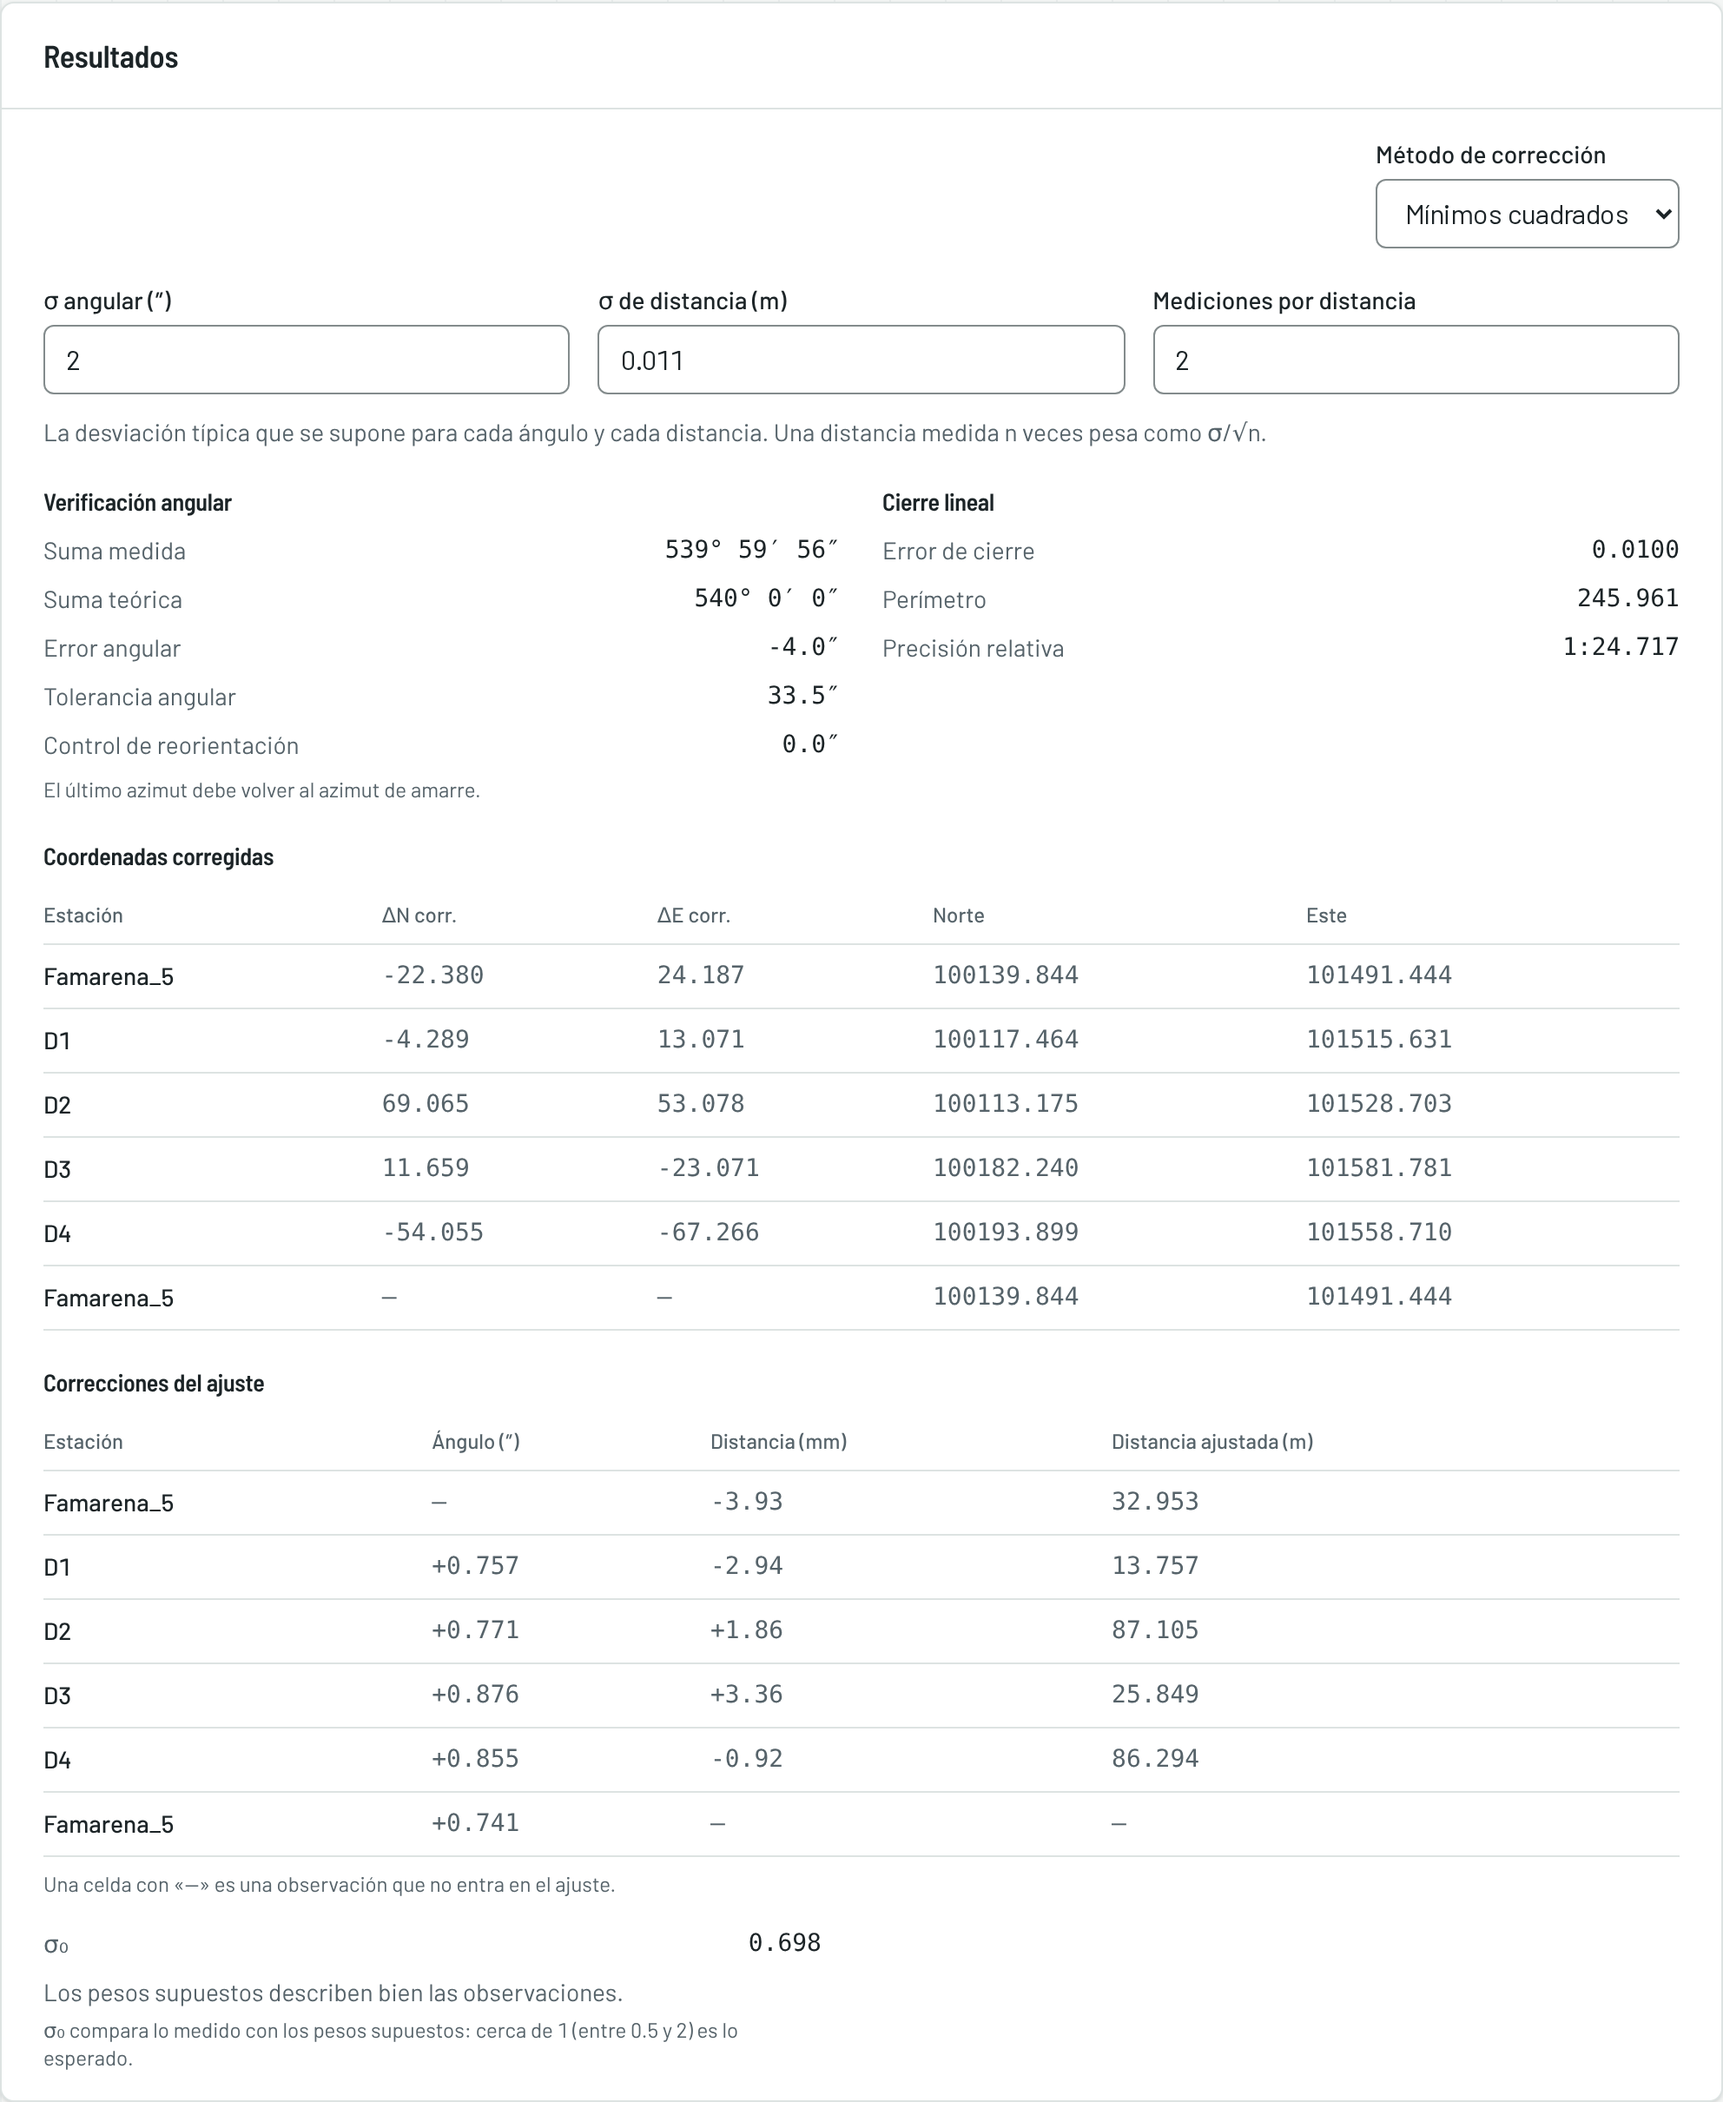
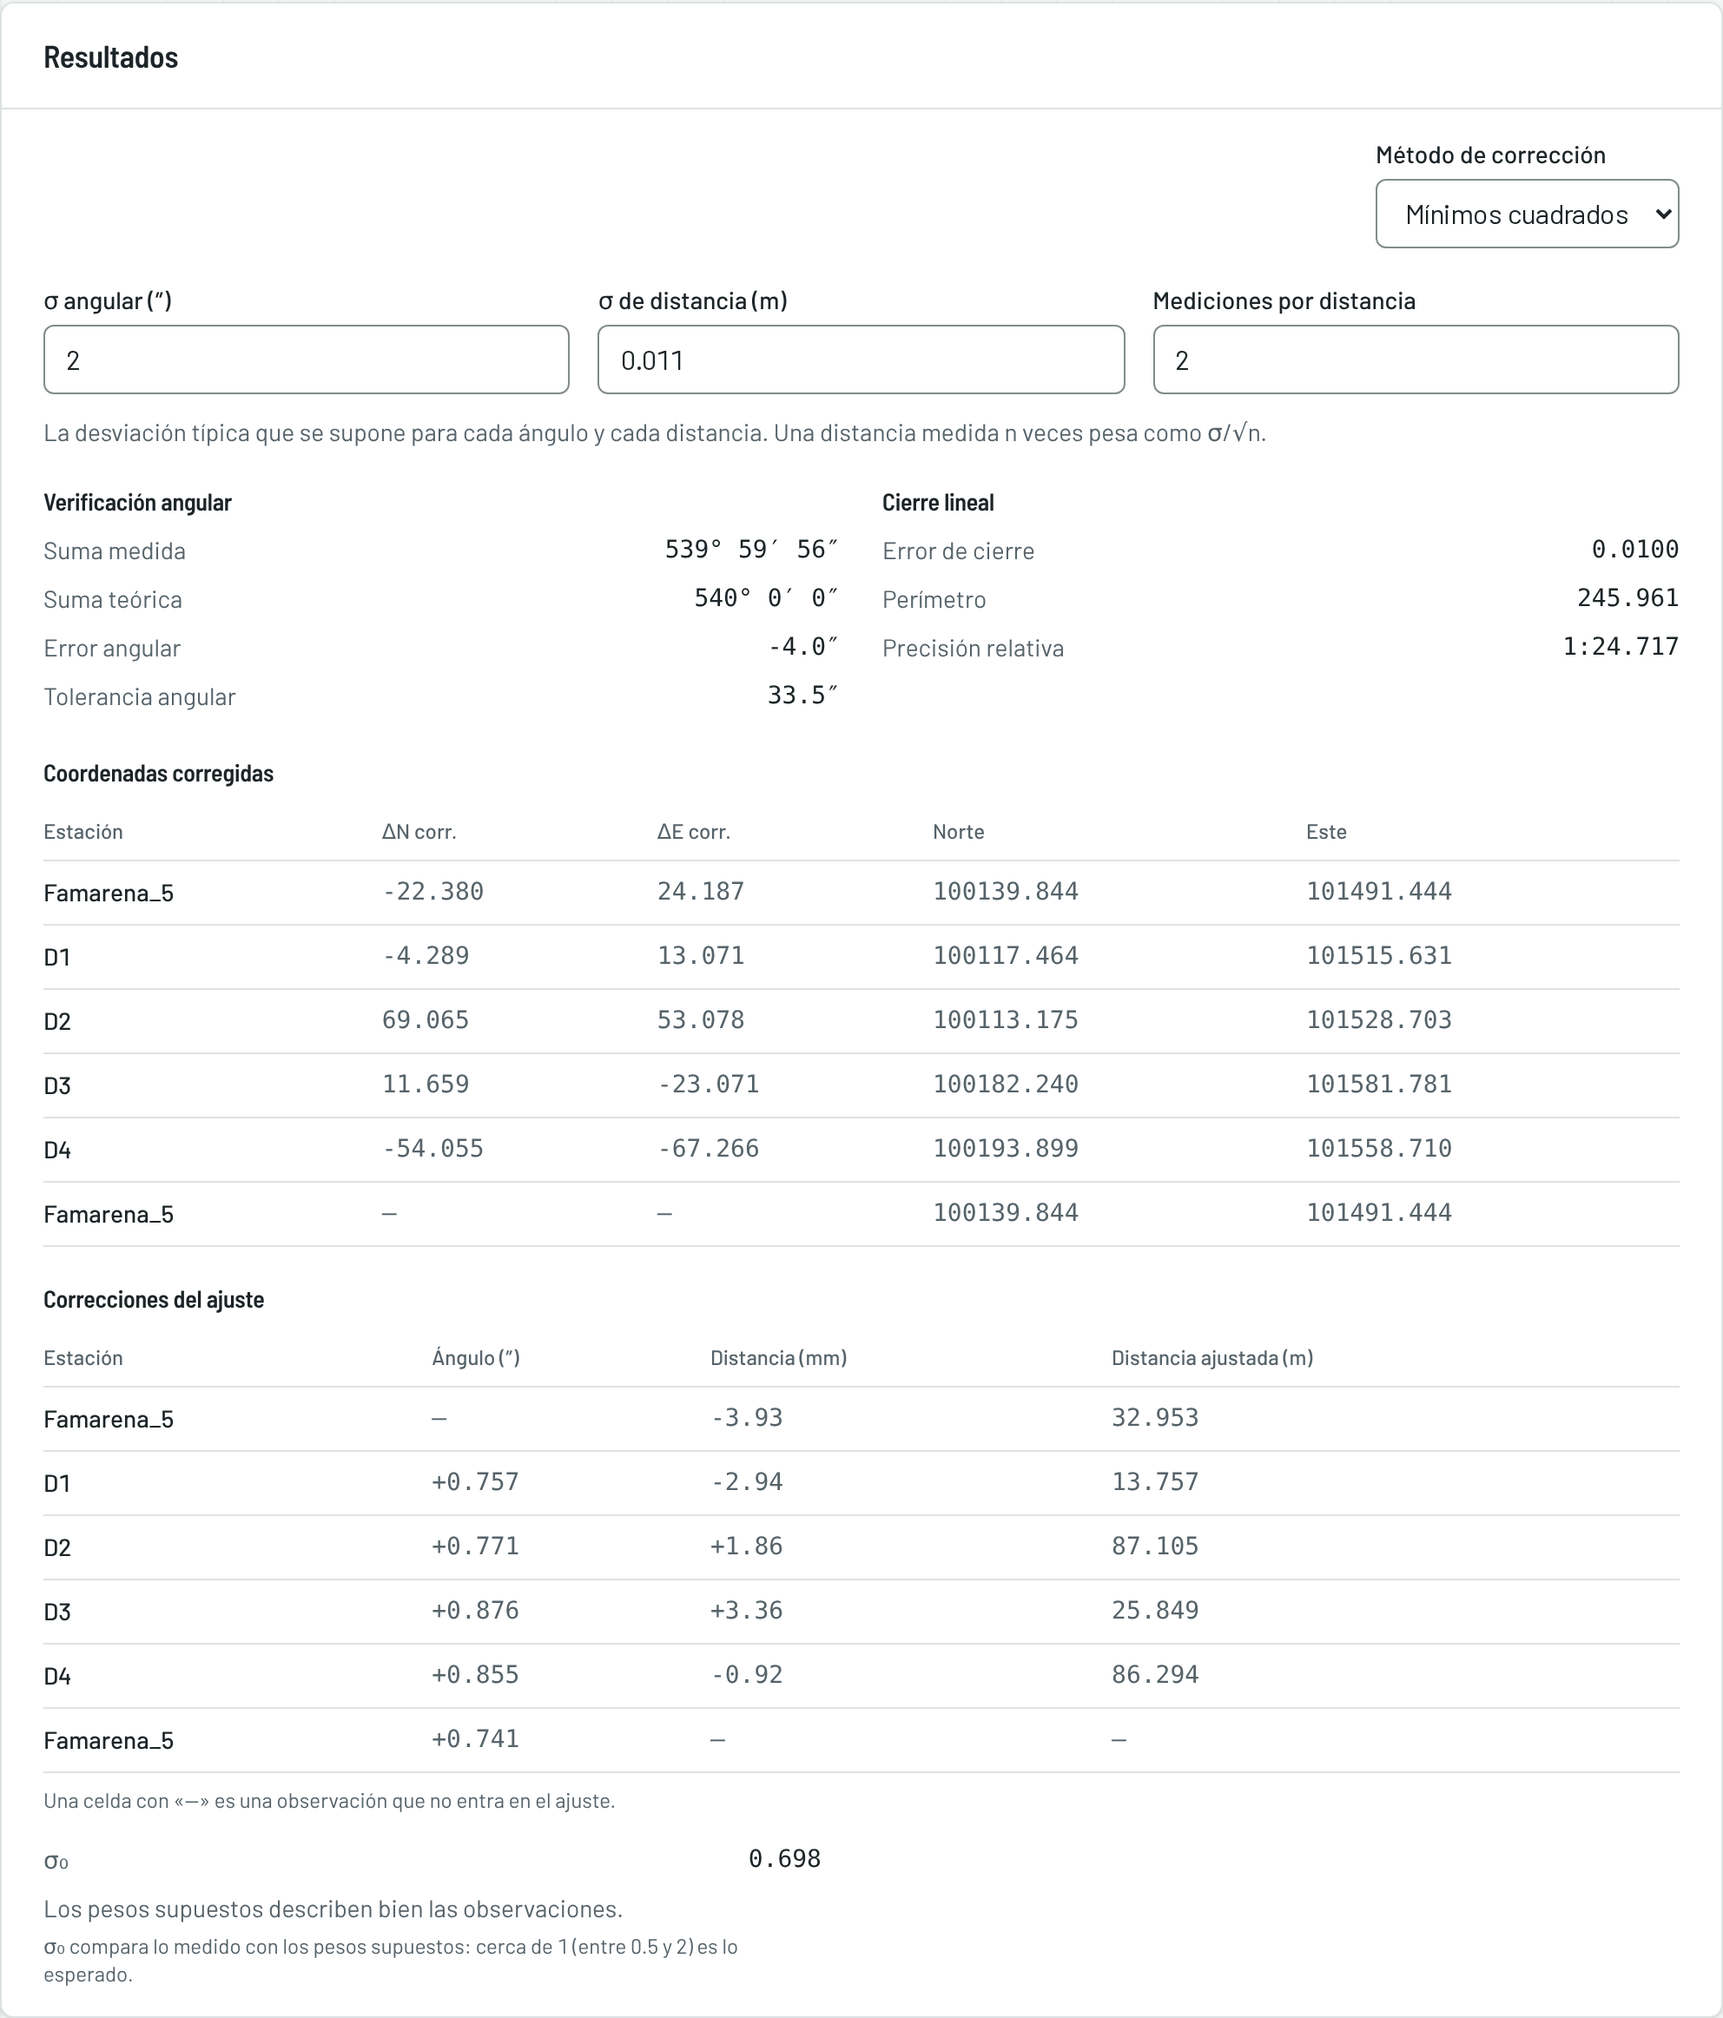
docs: captura de mínimos cuadrados sin el control de reorientación

diff --git a/src/app/(app)/manual/manual-data.ts b/src/app/(app)/manual/manual-data.ts
@@ -167,7 +167,7 @@ export const CAPTURAS = {
     src: "/manual/21-minimos-cuadrados.png",
     alt: "Resultados de la cartera Vivero con mínimos cuadrados: los tres pesos, la tabla de correcciones por ángulo y distancia, y σ₀ = 0.698 con su lectura.",
     width: 1984,
-    height: 2420,
+    height: 2324,
   },
   editorVisita: {
     src: "/manual/16-editor-visita.png",
